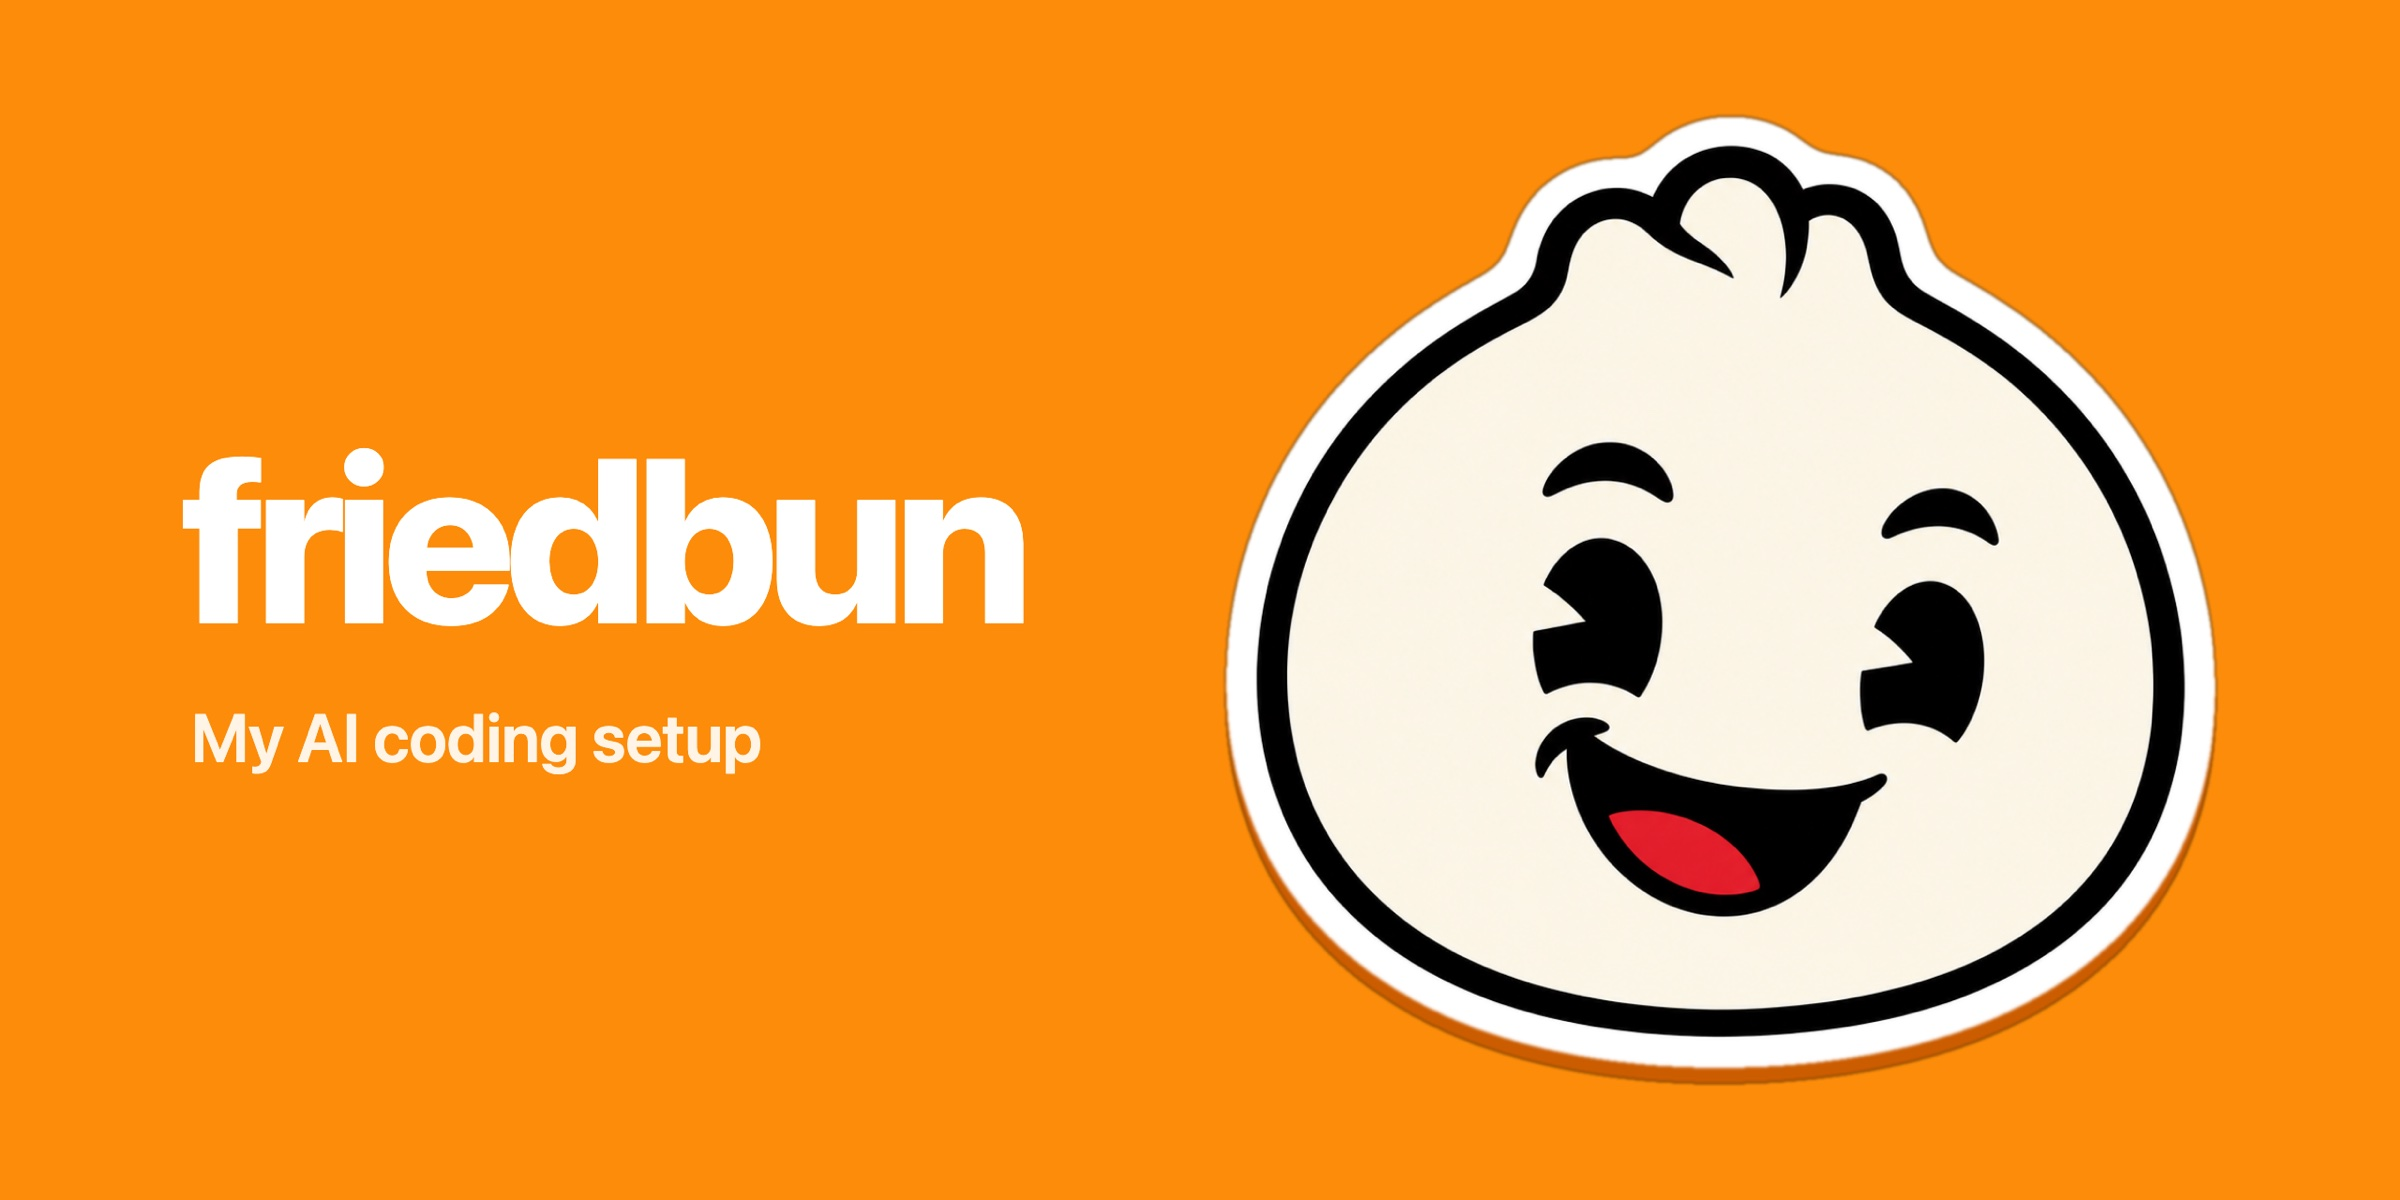
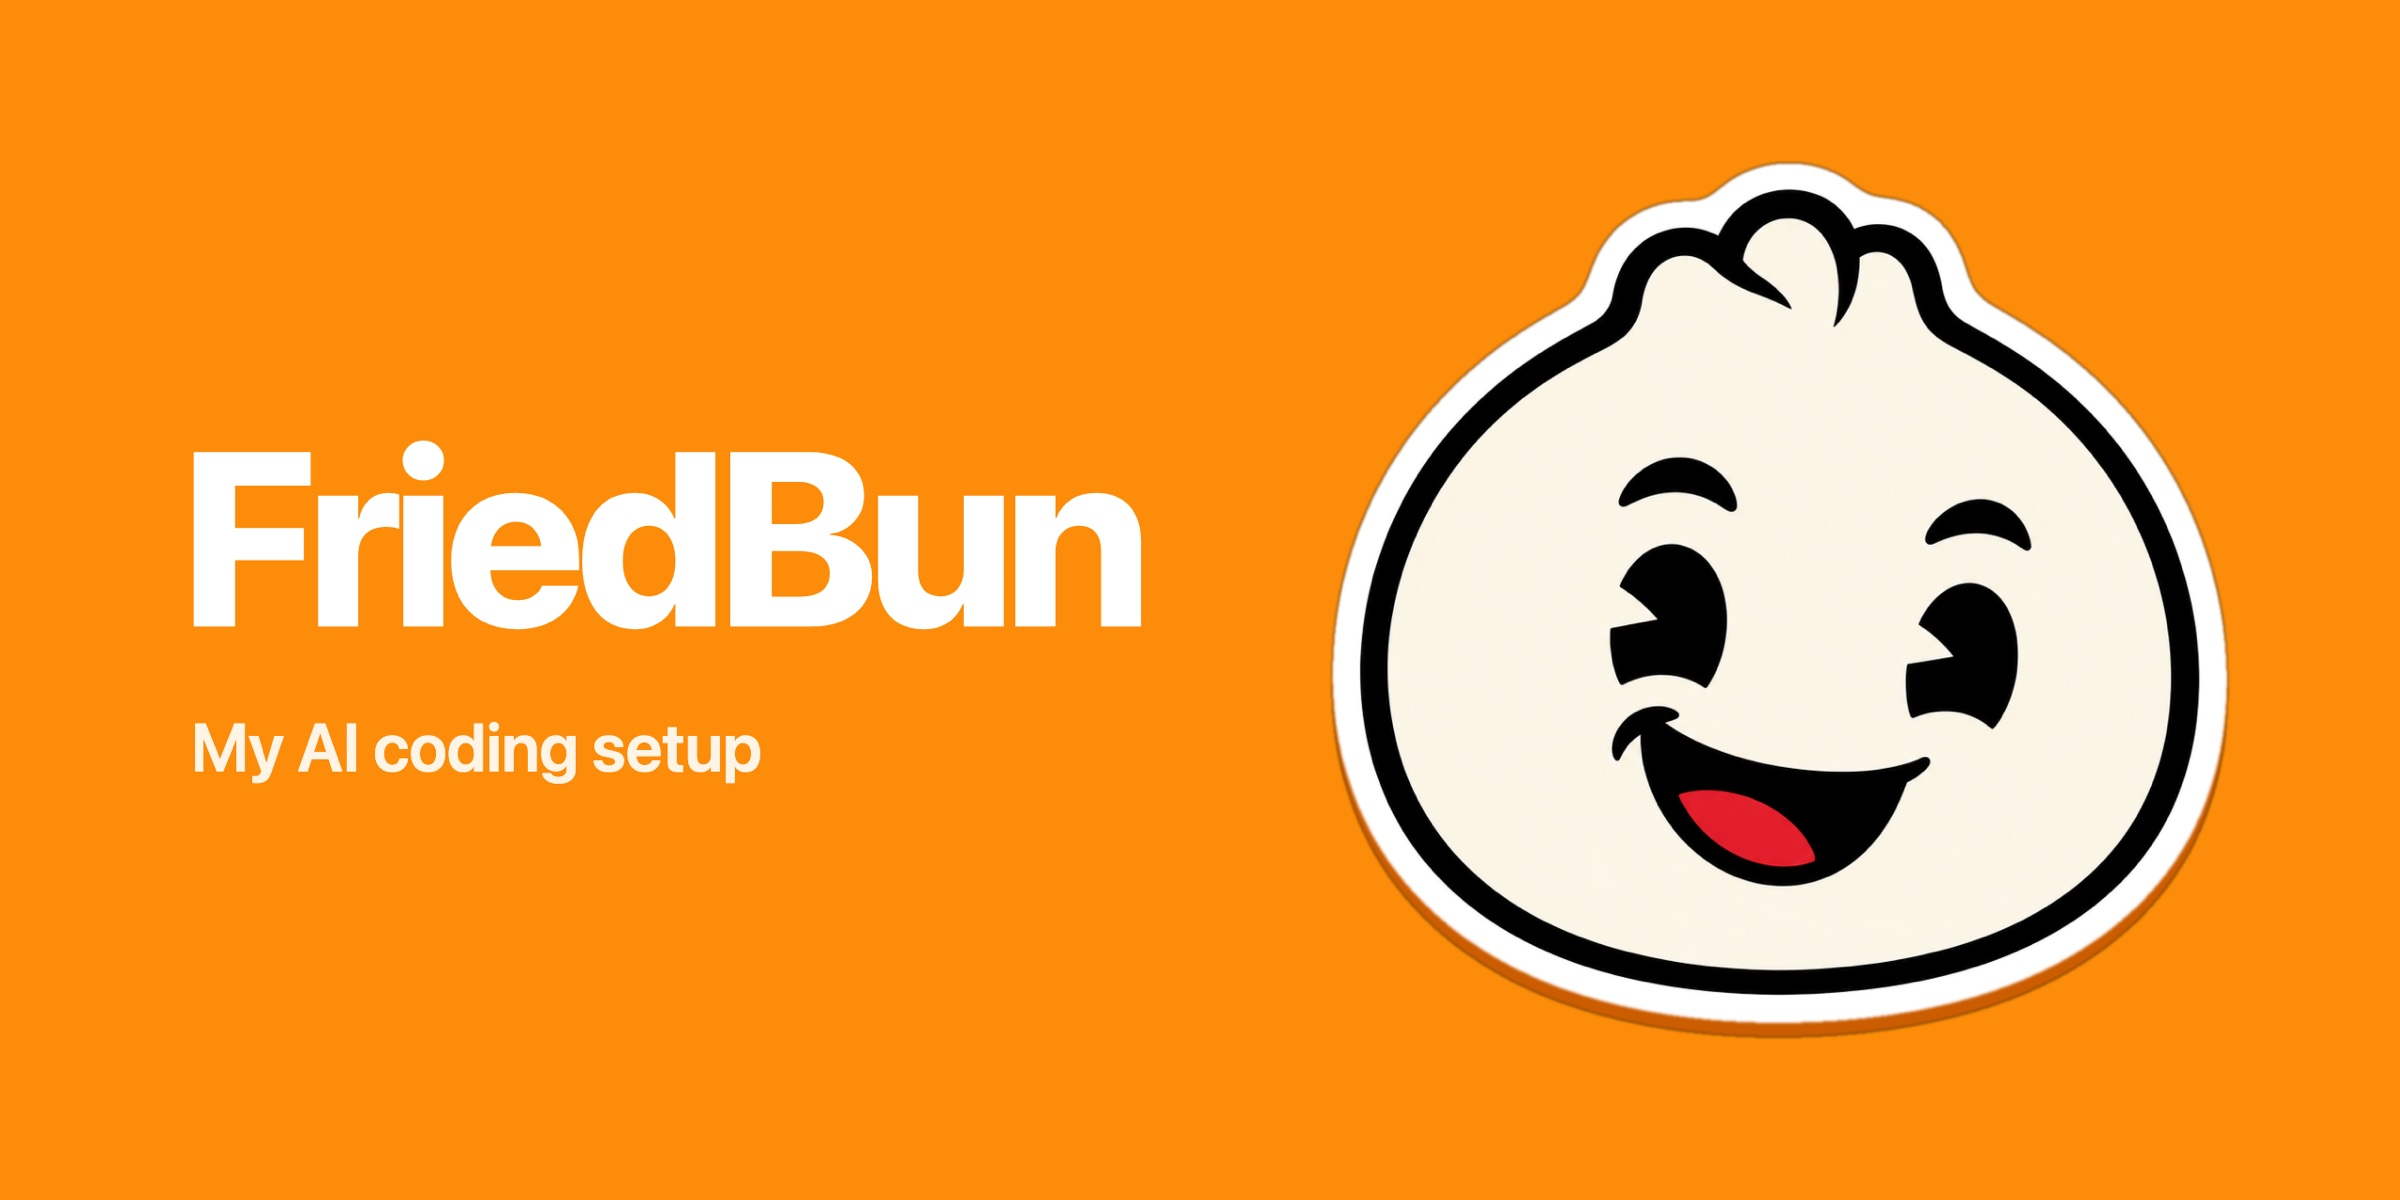
头图：包子恢复原尺寸，字标改为 FriedBun 并放大为主标题，标题降为副标题

Changed region(s): [[0.0625, 0.0925, 0.9375, 0.925], [0.0625, 0.5858, 0.3125, 0.6475]]

diff --git a/README.zh-CN.md b/README.zh-CN.md
@@ -1,4 +1,4 @@
-<p align="center"><img alt="friedbun：我每天在用的 AI 编程配置" src="assets/hero-zh.jpg" width="100%"></p>
+<p align="center"><img alt="FriedBun：我每天在用的 AI 编程配置" src="assets/hero-zh.jpg" width="100%"></p>
 
 <p align="center"><a href="README.md">English</a> · <b>中文</b></p>
 

diff --git a/README.md b/README.md
@@ -1,4 +1,4 @@
-<p align="center"><img alt="friedbun — my AI coding setup" src="assets/hero-en.jpg" width="100%"></p>
+<p align="center"><img alt="FriedBun — my AI coding setup" src="assets/hero-en.jpg" width="100%"></p>
 
 <p align="center"><b>English</b> · <a href="README.zh-CN.md">中文</a></p>
 
